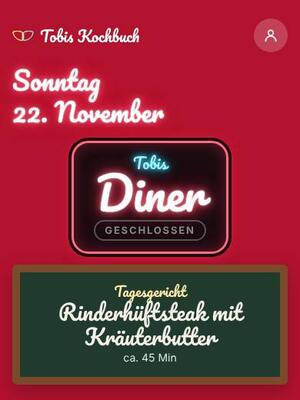
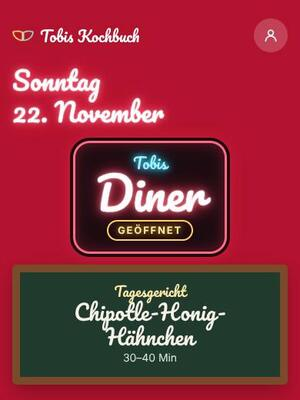
Skin-Vorschaubilder: alle 20 neu erzeugt (mit 3D), Version hochgezählt
Claude-Session: https://claude.ai/code/session_013PTjiN2vxWXEUNgaQEpBeg

diff --git a/_layouts/default.html b/_layouts/default.html
@@ -221,26 +221,26 @@
     </div>
     <div class="sheetBody">
       <div class="skinGrid" role="radiogroup" aria-label="Skin">
-        <button class="skinTile pressable" type="button" role="radio" data-skin-opt="standard" style="--swField:#1D4A33;--swBg:#FFFFFF;--swAcc:#1D4A33"><span class="skinSwatch skinShot" aria-hidden="true"><img src="{{ '/assets/skins/standard.jpg' | relative_url }}?v=1" alt="" loading="lazy" decoding="async" width="300" height="400"></span><span class="skinName">Standard</span></button>
-        <button class="skinTile pressable" type="button" role="radio" data-skin-opt="retro" style="--swField:#000080;--swBg:#C3C3C3;--swAcc:#FFFF00"><span class="skinSwatch skinShot" aria-hidden="true"><img src="{{ '/assets/skins/retro.jpg' | relative_url }}?v=1" alt="" loading="lazy" decoding="async" width="300" height="400"></span><span class="skinName">Retro</span></button>
-        <button class="skinTile pressable" type="button" role="radio" data-skin-opt="terminal" style="--swField:#23271F;--swBg:#050A06;--swAcc:#33FF66"><span class="skinSwatch skinShot" aria-hidden="true"><img src="{{ '/assets/skins/terminal.jpg' | relative_url }}?v=1" alt="" loading="lazy" decoding="async" width="300" height="400"></span><span class="skinName">Terminal</span></button>
-        <button class="skinTile pressable" type="button" role="radio" data-skin-opt="diner" style="--swField:#B3122E;--swBg:#FFFFFF;--swAcc:#2BB59A"><span class="skinSwatch skinShot" aria-hidden="true"><img src="{{ '/assets/skins/diner.jpg' | relative_url }}?v=1" alt="" loading="lazy" decoding="async" width="300" height="400"></span><span class="skinName">Diner</span></button>
-        <button class="skinTile pressable" type="button" role="radio" data-skin-opt="bauhaus" style="--swField:#111111;--swBg:#FFFFFF;--swAcc:#C8202A"><span class="skinSwatch skinShot" aria-hidden="true"><img src="{{ '/assets/skins/bauhaus.jpg' | relative_url }}?v=1" alt="" loading="lazy" decoding="async" width="300" height="400"></span><span class="skinName">Bauhaus</span></button>
-        <button class="skinTile pressable" type="button" role="radio" data-skin-opt="nordwall" style="--swField:#1C2126;--swBg:#E7E1D4;--swAcc:#7D1C1C"><span class="skinSwatch skinShot" aria-hidden="true"><img src="{{ '/assets/skins/nordwall.jpg' | relative_url }}?v=1" alt="" loading="lazy" decoding="async" width="300" height="400"></span><span class="skinName">Nordwall</span></button>
-        <button class="skinTile pressable" type="button" role="radio" data-skin-opt="zauberschule" style="--swField:#151A36;--swBg:#F1E6CC;--swAcc:#B08A2E"><span class="skinSwatch skinShot" aria-hidden="true"><img src="{{ '/assets/skins/zauberschule.jpg' | relative_url }}?v=1" alt="" loading="lazy" decoding="async" width="300" height="400"></span><span class="skinName">Zauberschule</span></button>
-        <button class="skinTile pressable" type="button" role="radio" data-skin-opt="jahr3000" style="--swField:#0B1E3B;--swBg:#E9F7F1;--swAcc:#7FE0C0"><span class="skinSwatch skinShot" aria-hidden="true"><img src="{{ '/assets/skins/jahr3000.jpg' | relative_url }}?v=1" alt="" loading="lazy" decoding="async" width="300" height="400"></span><span class="skinName">Jahr 3000</span></button>
-        <button class="skinTile pressable" type="button" role="radio" data-skin-opt="zweistaedte" style="--swField:#1F4D52;--swBg:#16131E;--swAcc:#FF3FA4"><span class="skinSwatch skinShot" aria-hidden="true"><img src="{{ '/assets/skins/zweistaedte.jpg' | relative_url }}?v=1" alt="" loading="lazy" decoding="async" width="300" height="400"></span><span class="skinName">Zwei Städte</span></button>
-        <button class="skinTile pressable" type="button" role="radio" data-skin-opt="insel" style="--swField:#050607;--swBg:#E8E1CF;--swAcc:#1A1A17"><span class="skinSwatch skinShot" aria-hidden="true"><img src="{{ '/assets/skins/insel.jpg' | relative_url }}?v=1" alt="" loading="lazy" decoding="async" width="300" height="400"></span><span class="skinName">Die Insel</span></button>
-        <button class="skinTile pressable" type="button" role="radio" data-skin-opt="akte" style="--swField:#1E2933;--swBg:#DDE2E5;--swAcc:#E4CFA0"><span class="skinSwatch skinShot" aria-hidden="true"><img src="{{ '/assets/skins/akte.jpg' | relative_url }}?v=1" alt="" loading="lazy" decoding="async" width="300" height="400"></span><span class="skinName">Akte</span></button>
-        <button class="skinTile pressable" type="button" role="radio" data-skin-opt="brigade" style="--swField:#CDD1D5;--swBg:#F2F3F3;--swAcc:#2E62A8"><span class="skinSwatch skinShot" aria-hidden="true"><img src="{{ '/assets/skins/brigade.jpg' | relative_url }}?v=1" alt="" loading="lazy" decoding="async" width="300" height="400"></span><span class="skinName">Brigade</span></button>
-        <button class="skinTile pressable" type="button" role="radio" data-skin-opt="boxengasse" style="--swField:#282C20;--swBg:#15170F;--swAcc:#D2FF00"><span class="skinSwatch skinShot" aria-hidden="true"><img src="{{ '/assets/skins/boxengasse.jpg' | relative_url }}?v=1" alt="" loading="lazy" decoding="async" width="300" height="400"></span><span class="skinName">Boxengasse</span></button>
-        <button class="skinTile pressable" type="button" role="radio" data-skin-opt="bildband" style="--swField:#EFE7D8;--swBg:#FAF6EE;--swAcc:#8A4B2A"><span class="skinSwatch skinShot" aria-hidden="true"><img src="{{ '/assets/skins/bildband.jpg' | relative_url }}?v=1" alt="" loading="lazy" decoding="async" width="300" height="400"></span><span class="skinName">Bildband</span></button>
-        <button class="skinTile pressable" type="button" role="radio" data-skin-opt="wortwelt" style="--swField:#161515;--swBg:#22201F;--swAcc:#EDB9B1"><span class="skinSwatch skinShot" aria-hidden="true"><img src="{{ '/assets/skins/wortwelt.jpg' | relative_url }}?v=1" alt="" loading="lazy" decoding="async" width="300" height="400"></span><span class="skinName">Bilderbuch</span></button>
-        <button class="skinTile pressable" type="button" role="radio" data-skin-opt="blauraum" style="--swField:#0C0CD6;--swBg:#0A0AB8;--swAcc:#F4F000"><span class="skinSwatch skinShot" aria-hidden="true"><img src="{{ '/assets/skins/blauraum.jpg' | relative_url }}?v=1" alt="" loading="lazy" decoding="async" width="300" height="400"></span><span class="skinName">Blauraum</span></button>
-        <button class="skinTile pressable" type="button" role="radio" data-skin-opt="glasklar" style="--swField:#0D0D0E;--swBg:#18191B;--swAcc:#9FD8FF"><span class="skinSwatch skinShot" aria-hidden="true"><img src="{{ '/assets/skins/glasklar.jpg' | relative_url }}?v=1" alt="" loading="lazy" decoding="async" width="300" height="400"></span><span class="skinName">Glasklar</span></button>
-        <button class="skinTile pressable" type="button" role="radio" data-skin-opt="tiefsee" style="--swField:#E6E4EE;--swBg:#FFFFFF;--swAcc:#0B0B0F"><span class="skinSwatch skinShot" aria-hidden="true"><img src="{{ '/assets/skins/tiefsee.jpg' | relative_url }}?v=1" alt="" loading="lazy" decoding="async" width="300" height="400"></span><span class="skinName">Tiefsee</span></button>
-        <button class="skinTile pressable" type="button" role="radio" data-skin-opt="formlabor" style="--swField:#2A1912;--swBg:#F5F3EE;--swAcc:#F2541B"><span class="skinSwatch skinShot" aria-hidden="true"><img src="{{ '/assets/skins/formlabor.jpg' | relative_url }}?v=1" alt="" loading="lazy" decoding="async" width="300" height="400"></span><span class="skinName">Formlabor</span></button>
-        <button class="skinTile pressable" type="button" role="radio" data-skin-opt="galerie" style="--swField:#1E2C44;--swBg:#DCDAD1;--swAcc:#E36AC1"><span class="skinSwatch skinShot" aria-hidden="true"><img src="{{ '/assets/skins/galerie.jpg' | relative_url }}?v=1" alt="" loading="lazy" decoding="async" width="300" height="400"></span><span class="skinName">Galerie</span></button>
+        <button class="skinTile pressable" type="button" role="radio" data-skin-opt="standard" style="--swField:#1D4A33;--swBg:#FFFFFF;--swAcc:#1D4A33"><span class="skinSwatch skinShot" aria-hidden="true"><img src="{{ '/assets/skins/standard.jpg' | relative_url }}?v=2" alt="" loading="lazy" decoding="async" width="300" height="400"></span><span class="skinName">Standard</span></button>
+        <button class="skinTile pressable" type="button" role="radio" data-skin-opt="retro" style="--swField:#000080;--swBg:#C3C3C3;--swAcc:#FFFF00"><span class="skinSwatch skinShot" aria-hidden="true"><img src="{{ '/assets/skins/retro.jpg' | relative_url }}?v=2" alt="" loading="lazy" decoding="async" width="300" height="400"></span><span class="skinName">Retro</span></button>
+        <button class="skinTile pressable" type="button" role="radio" data-skin-opt="terminal" style="--swField:#23271F;--swBg:#050A06;--swAcc:#33FF66"><span class="skinSwatch skinShot" aria-hidden="true"><img src="{{ '/assets/skins/terminal.jpg' | relative_url }}?v=2" alt="" loading="lazy" decoding="async" width="300" height="400"></span><span class="skinName">Terminal</span></button>
+        <button class="skinTile pressable" type="button" role="radio" data-skin-opt="diner" style="--swField:#B3122E;--swBg:#FFFFFF;--swAcc:#2BB59A"><span class="skinSwatch skinShot" aria-hidden="true"><img src="{{ '/assets/skins/diner.jpg' | relative_url }}?v=2" alt="" loading="lazy" decoding="async" width="300" height="400"></span><span class="skinName">Diner</span></button>
+        <button class="skinTile pressable" type="button" role="radio" data-skin-opt="bauhaus" style="--swField:#111111;--swBg:#FFFFFF;--swAcc:#C8202A"><span class="skinSwatch skinShot" aria-hidden="true"><img src="{{ '/assets/skins/bauhaus.jpg' | relative_url }}?v=2" alt="" loading="lazy" decoding="async" width="300" height="400"></span><span class="skinName">Bauhaus</span></button>
+        <button class="skinTile pressable" type="button" role="radio" data-skin-opt="nordwall" style="--swField:#1C2126;--swBg:#E7E1D4;--swAcc:#7D1C1C"><span class="skinSwatch skinShot" aria-hidden="true"><img src="{{ '/assets/skins/nordwall.jpg' | relative_url }}?v=2" alt="" loading="lazy" decoding="async" width="300" height="400"></span><span class="skinName">Nordwall</span></button>
+        <button class="skinTile pressable" type="button" role="radio" data-skin-opt="zauberschule" style="--swField:#151A36;--swBg:#F1E6CC;--swAcc:#B08A2E"><span class="skinSwatch skinShot" aria-hidden="true"><img src="{{ '/assets/skins/zauberschule.jpg' | relative_url }}?v=2" alt="" loading="lazy" decoding="async" width="300" height="400"></span><span class="skinName">Zauberschule</span></button>
+        <button class="skinTile pressable" type="button" role="radio" data-skin-opt="jahr3000" style="--swField:#0B1E3B;--swBg:#E9F7F1;--swAcc:#7FE0C0"><span class="skinSwatch skinShot" aria-hidden="true"><img src="{{ '/assets/skins/jahr3000.jpg' | relative_url }}?v=2" alt="" loading="lazy" decoding="async" width="300" height="400"></span><span class="skinName">Jahr 3000</span></button>
+        <button class="skinTile pressable" type="button" role="radio" data-skin-opt="zweistaedte" style="--swField:#1F4D52;--swBg:#16131E;--swAcc:#FF3FA4"><span class="skinSwatch skinShot" aria-hidden="true"><img src="{{ '/assets/skins/zweistaedte.jpg' | relative_url }}?v=2" alt="" loading="lazy" decoding="async" width="300" height="400"></span><span class="skinName">Zwei Städte</span></button>
+        <button class="skinTile pressable" type="button" role="radio" data-skin-opt="insel" style="--swField:#050607;--swBg:#E8E1CF;--swAcc:#1A1A17"><span class="skinSwatch skinShot" aria-hidden="true"><img src="{{ '/assets/skins/insel.jpg' | relative_url }}?v=2" alt="" loading="lazy" decoding="async" width="300" height="400"></span><span class="skinName">Die Insel</span></button>
+        <button class="skinTile pressable" type="button" role="radio" data-skin-opt="akte" style="--swField:#1E2933;--swBg:#DDE2E5;--swAcc:#E4CFA0"><span class="skinSwatch skinShot" aria-hidden="true"><img src="{{ '/assets/skins/akte.jpg' | relative_url }}?v=2" alt="" loading="lazy" decoding="async" width="300" height="400"></span><span class="skinName">Akte</span></button>
+        <button class="skinTile pressable" type="button" role="radio" data-skin-opt="brigade" style="--swField:#CDD1D5;--swBg:#F2F3F3;--swAcc:#2E62A8"><span class="skinSwatch skinShot" aria-hidden="true"><img src="{{ '/assets/skins/brigade.jpg' | relative_url }}?v=2" alt="" loading="lazy" decoding="async" width="300" height="400"></span><span class="skinName">Brigade</span></button>
+        <button class="skinTile pressable" type="button" role="radio" data-skin-opt="boxengasse" style="--swField:#282C20;--swBg:#15170F;--swAcc:#D2FF00"><span class="skinSwatch skinShot" aria-hidden="true"><img src="{{ '/assets/skins/boxengasse.jpg' | relative_url }}?v=2" alt="" loading="lazy" decoding="async" width="300" height="400"></span><span class="skinName">Boxengasse</span></button>
+        <button class="skinTile pressable" type="button" role="radio" data-skin-opt="bildband" style="--swField:#EFE7D8;--swBg:#FAF6EE;--swAcc:#8A4B2A"><span class="skinSwatch skinShot" aria-hidden="true"><img src="{{ '/assets/skins/bildband.jpg' | relative_url }}?v=2" alt="" loading="lazy" decoding="async" width="300" height="400"></span><span class="skinName">Bildband</span></button>
+        <button class="skinTile pressable" type="button" role="radio" data-skin-opt="wortwelt" style="--swField:#161515;--swBg:#22201F;--swAcc:#EDB9B1"><span class="skinSwatch skinShot" aria-hidden="true"><img src="{{ '/assets/skins/wortwelt.jpg' | relative_url }}?v=2" alt="" loading="lazy" decoding="async" width="300" height="400"></span><span class="skinName">Bilderbuch</span></button>
+        <button class="skinTile pressable" type="button" role="radio" data-skin-opt="blauraum" style="--swField:#0C0CD6;--swBg:#0A0AB8;--swAcc:#F4F000"><span class="skinSwatch skinShot" aria-hidden="true"><img src="{{ '/assets/skins/blauraum.jpg' | relative_url }}?v=2" alt="" loading="lazy" decoding="async" width="300" height="400"></span><span class="skinName">Blauraum</span></button>
+        <button class="skinTile pressable" type="button" role="radio" data-skin-opt="glasklar" style="--swField:#0D0D0E;--swBg:#18191B;--swAcc:#9FD8FF"><span class="skinSwatch skinShot" aria-hidden="true"><img src="{{ '/assets/skins/glasklar.jpg' | relative_url }}?v=2" alt="" loading="lazy" decoding="async" width="300" height="400"></span><span class="skinName">Glasklar</span></button>
+        <button class="skinTile pressable" type="button" role="radio" data-skin-opt="tiefsee" style="--swField:#E6E4EE;--swBg:#FFFFFF;--swAcc:#0B0B0F"><span class="skinSwatch skinShot" aria-hidden="true"><img src="{{ '/assets/skins/tiefsee.jpg' | relative_url }}?v=2" alt="" loading="lazy" decoding="async" width="300" height="400"></span><span class="skinName">Tiefsee</span></button>
+        <button class="skinTile pressable" type="button" role="radio" data-skin-opt="formlabor" style="--swField:#2A1912;--swBg:#F5F3EE;--swAcc:#F2541B"><span class="skinSwatch skinShot" aria-hidden="true"><img src="{{ '/assets/skins/formlabor.jpg' | relative_url }}?v=2" alt="" loading="lazy" decoding="async" width="300" height="400"></span><span class="skinName">Formlabor</span></button>
+        <button class="skinTile pressable" type="button" role="radio" data-skin-opt="galerie" style="--swField:#1E2C44;--swBg:#DCDAD1;--swAcc:#E36AC1"><span class="skinSwatch skinShot" aria-hidden="true"><img src="{{ '/assets/skins/galerie.jpg' | relative_url }}?v=2" alt="" loading="lazy" decoding="async" width="300" height="400"></span><span class="skinName">Galerie</span></button>
       </div>
       <div class="skinSoundGroup">
         <button class="sheetRow" id="toggleSkinSound" type="button" role="switch" aria-checked="false"><span class="rowGlyph" aria-hidden="true"><svg viewBox="0 0 24 24" fill="none" stroke="currentColor" stroke-width="1.8" stroke-linecap="round" stroke-linejoin="round" style="width:18px;height:18px"><path d="M11 5L6 9H3v6h3l5 4z"/><path d="M15.5 8.5a5 5 0 010 7M18.5 5.5a9 9 0 010 13"/></svg></span><span>Klänge der Welten</span><span class="sheetSwitch" aria-hidden="true"></span></button>

diff --git a/tools/skin-previews.js b/tools/skin-previews.js
@@ -1,21 +1,24 @@
 // Vorschaubilder für die Skin-Auswahl: Startseite je Skin (oberer Teil, 3 : 4) als assets/skins/<skin>.jpg.
 // Ablauf: Seite bauen, `python3 -m http.server 8411 --directory _site`, dann `node tools/skin-previews.js`
 // und `for f in assets/skins/*.jpg; do convert $f -resize 300x400 -quality 74 -strip $f; done`
-// (danach `?v=` an den Bildern in _layouts/default.html hochzählen). Nach sichtbaren Änderungen an einem Skin neu erzeugen.
+// (danach `?v=` an den Bildern in _layouts/default.html hochzählen – sonst zeigen Geräte die alten Bilder aus dem Zwischenspeicher).
+// Nach sichtbaren Änderungen an einem Skin neu erzeugen. 3D-Köpfe brauchen WebGL: Chromium mit SwiftShader + `kochbuch.ui.cineForce`.
+// Einzelne Skins: `node tools/skin-previews.js http://localhost:8411 nordwall,akte`.
 const { chromium } = require("playwright");
 const path = require("path");
 const BASE = process.argv[2] || "http://localhost:8411";
-const SKINS = ["standard", "retro", "terminal", "diner", "bauhaus", "nordwall", "zauberschule", "jahr3000", "zweistaedte", "insel", "akte", "brigade", "boxengasse", "bildband", "wortwelt", "blauraum", "glasklar", "tiefsee", "formlabor", "galerie"];
+const ALL = ["standard", "retro", "terminal", "diner", "bauhaus", "nordwall", "zauberschule", "jahr3000", "zweistaedte", "insel", "akte", "brigade", "boxengasse", "bildband", "wortwelt", "blauraum", "glasklar", "tiefsee", "formlabor", "galerie"];
+const SKINS = process.argv[3] ? process.argv[3].split(",") : ALL;
 (async ()=>{
-  const b = await chromium.launch();
+  const b = await chromium.launch({ args: ["--use-gl=angle", "--use-angle=swiftshader", "--enable-unsafe-swiftshader", "--ignore-gpu-blocklist"] });
   for(const s of SKINS){
     const c = await b.newContext({ viewport: { width: 390, height: 760 }, deviceScaleFactor: 1, isMobile: true, hasTouch: true, reducedMotion: "reduce", colorScheme: "light" });
-    await c.addInitScript((s)=>{ try{ if(s !== "standard") localStorage.setItem("kochbuch.ui.skin", JSON.stringify(s)); localStorage.setItem("kochbuch.ui.retroBoot", new Date().toDateString()); }catch(e){} }, s);
+    await c.addInitScript((s)=>{ try{ if(s !== "standard") localStorage.setItem("kochbuch.ui.skin", JSON.stringify(s)); localStorage.setItem("kochbuch.ui.retroBoot", new Date().toDateString()); localStorage.setItem("kochbuch.ui.cineForce", "1"); localStorage.setItem("kochbuch.ui.introDay", s + "|" + new Date().toDateString()); sessionStorage.setItem("kochbuch.ui.intro", s); }catch(e){} }, s);
     const p = await c.newPage();
-    await p.goto(BASE + "/"); await p.waitForTimeout(1200);
+    await p.goto(BASE + "/"); await p.waitForTimeout(6000);
     // Tab-Leiste und Kapsel gehören nicht ins Vorschaubild
     await p.addStyleTag({ content: ".tabbar,.nowCooking,.retroBoot{display:none !important}" });
-    await p.screenshot({ path: path.join(__dirname, "..", "assets", "skins", s + ".jpg"), type: "jpeg", quality: 72, clip: { x: 0, y: 0, width: 390, height: 520 } });
+    await p.screenshot({ path: path.join(__dirname, "..", "assets", "skins", s + ".jpg"), type: "jpeg", quality: 72, timeout: 60000, clip: { x: 0, y: 0, width: 390, height: 520 } });
     await c.close();
   }
   await b.close();

diff --git a/sw.js b/sw.js
@@ -1,7 +1,7 @@
 /* Tobis Kochbuch — Service Worker
    Offline: Seiten „netzwerk-zuerst“, aber nach 3 s Warten (schlechter Empfang im Supermarkt) aus dem Cache.
    CSS/JS/Bilder „Cache zuerst“, im Hintergrund aktualisieren. /api/ nie cachen. */
-const VERSION = 'kochbuch-v145';
+const VERSION = 'kochbuch-v146';
 const ASSET_CACHE = `${VERSION}-assets`;
 const IMAGE_CACHE = `${VERSION}-images`;
 const PAGE_CACHE = `${VERSION}-pages`;

diff --git a/CLAUDE.md b/CLAUDE.md
@@ -102,7 +102,9 @@ Nur `/api/*` läuft durch den Worker (`run_worker_first`), alles andere sind sta
     Neue Regeln ans Ende der Skin-Datei; was für alle Skins gilt, nach `styles.css`.
   - **Verhalten:** `assets/skins.js` (Szenen `.skinScene`, eingefügte Elemente `.skinBit` + `data-for`, Uhr je Welt `worldClock()`,
     Timer-Karte `homeTimer()`, Vorspann `playIntro()`, Klänge nur mit Schalter „Klänge der Welten“, Stimme `VOICE`).
-  - **Vorschaubilder** der Skin-Auswahl: `assets/skins/<skin>.jpg` aus `tools/skin-previews.js` – nach sichtbaren Änderungen neu erzeugen.
+  - **Vorschaubilder** der Skin-Auswahl: `assets/skins/<skin>.jpg` aus `tools/skin-previews.js` (mit WebGL/SwiftShader, auch einzeln:
+    `node tools/skin-previews.js <url> nordwall,akte`) – nach sichtbaren Änderungen neu erzeugen **und `?v=` an den Bildern in
+    `_layouts/default.html` hochzählen** (sonst bleiben auf den Geräten die alten Bilder; Dez. 2026 auf `?v=2`).
   - **Boxengasse** (Nov. 2026, Wunsch des Besitzers: Aufbau, UI und Scroll-Bewegung wie landonorris.com, nicht der Inhalt): dunkles Oliv
     `#282C20`, Limette `#D2FF00` als einzige Signalfarbe, fette Versal-Titel mit einem Wort in dünner Serifenschrift (`em.bxSerif`),
     Karten mit ausgeklinkter Ecke. Bewegung in `boxengasse()` (`skins.js`): Einblenden beim Scrollen (`.bxRv`, nur was beim Aufbau
